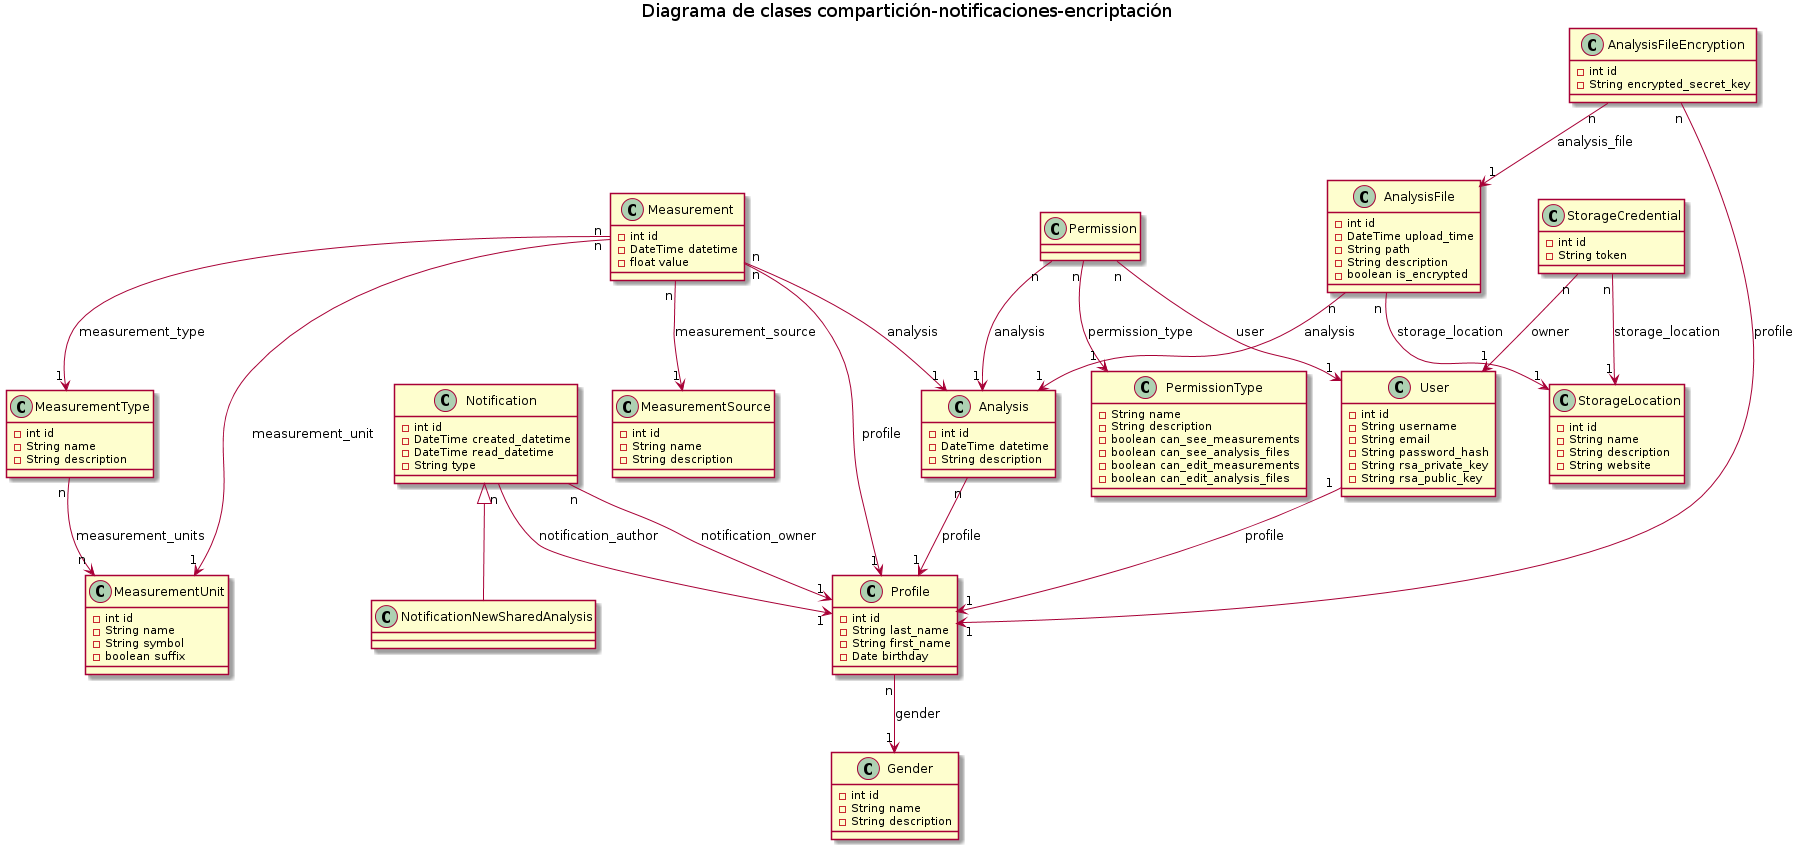
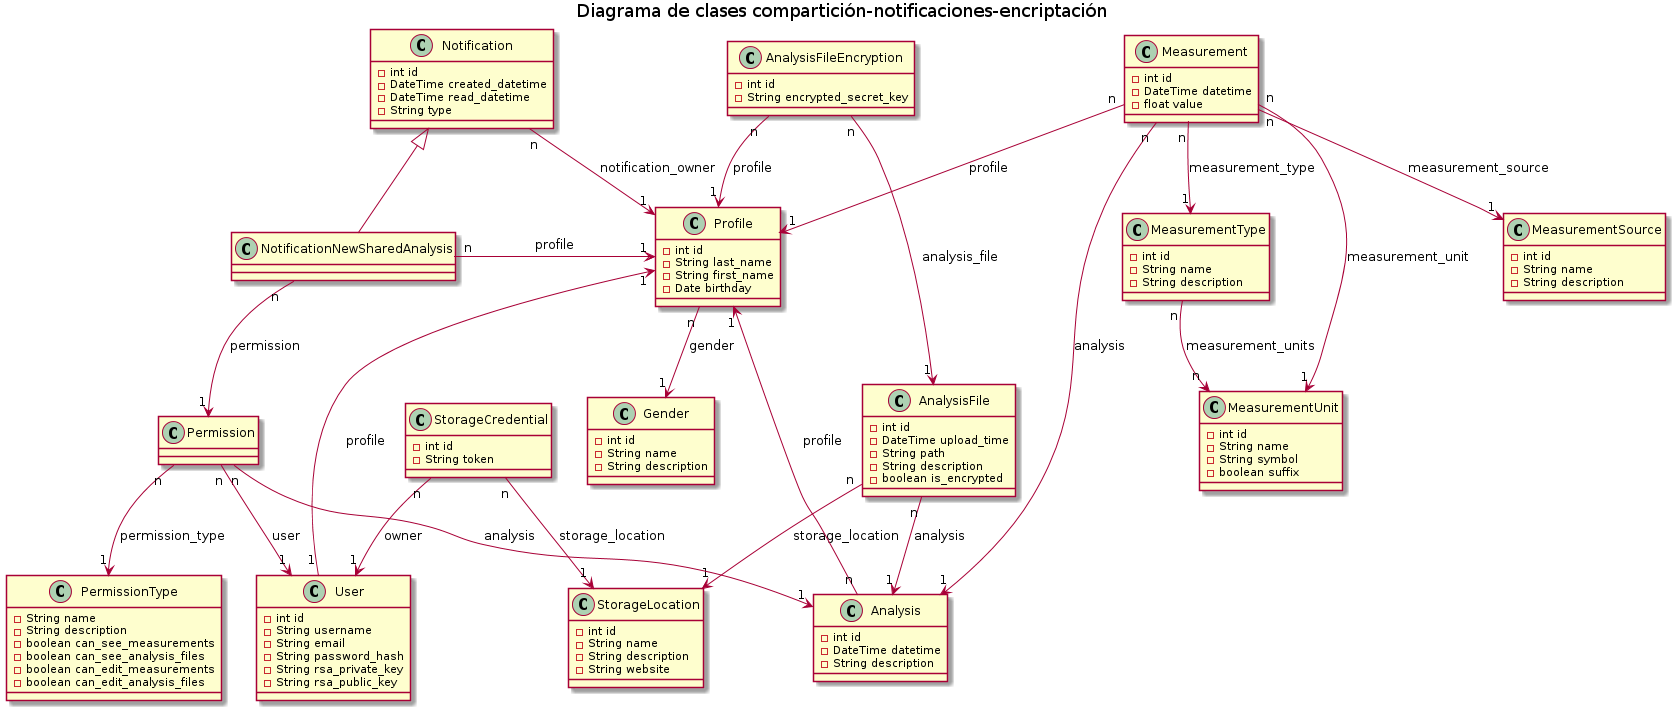
se actualizan user stories relacionados, explicación de encriptación y notificaciones, criterios de aceptación, sección pruebas ejecutadas, pendiente pruebas de integración, carga y seguridad

diff --git a/practicos/Diseño_Desarrollo_e_Implementación/tex/sprint_8.tex b/practicos/Diseño_Desarrollo_e_Implementación/tex/sprint_8.tex
@@ -6,6 +6,7 @@
     \item \textbf{Fin}: 1 de Noviembre de 2015.
 \end{itemize}
 
+
 \subsection{Descripción}
 
 En este sprint el equipo busca brindar funcionalidades que hacen del registro de análisis, carga de mediciones y archivos más útiles en lugar de solo representar registros de estudios. El equipo define una forma de compartir análisis cargados a otros usuarios registrados al mismo, con solo conocer el nombre del usuario destino de la compartición, el usuario que registra el análisis puede compartirse lo a este usuario destino. Esto presenta una gran utilidad en casos en los que el paciente visita al médico, inicia la consulta cargando un nuevo análisis con un título que le sea esclarecedor y una descripción en caso de que el título no lo sea, en esta situación, el médico puede solicitar que realice una serie de estudios, si el paciente realiza el estudio, por ejemplo unos análisis clínicos, el médico para estar al tanto de los resultados debe esperar a la próxima consulta con el paciente, con esta nueva funcionalidad el usuario puede cargar una imagen de los resultados, compartir el análisis con el médico e inmediatamente, este último, podrá ver los resultados del análisis clínico. Para compartir análisis debemos tener cuidado con lo que la persona a la que se le comparte el análisis puede hacer con estos datos, para salvar esta situación se define una estructura de permisos que define que es lo que puede hacer el usuario con el análisis compartidos, ver, editar, eliminar análisis y las combinaciones de las mismas. Esta funcionalidad es muy importante pero puede verse entorpecida si el usuario al que se le comparte el análisis no toma conocimiento de esta situación, para esto el equipo definió una forma de notificar al usuario cuando otro le comparte un análisis. Por el momento consiste en notificaciones que indican nombre de usuario y el evento, en este caso sería "El usuario x compartió un análisis contigo", las cuales deberían mostrarse sin importar la vista en la que se encuentre. Por otro lado, un tema importante y ampliamente desarrollado en la sección de Factibilidad es la protección de los datos del usuario, actualmente el sistema gestiona archivos que puede cargar a un sistema hosteado de almacenamiento como Dropbox o Drive, el problema es que estos archivos quedan visibles y quien tenga acceso a estos sistemas podrá ver las imágenes. Para una mejor protección de los datos del usuario se brinda la posibilidad de que, bajo indicación del usuario, sus archivos cargados a YesDoc y almacenados posteriormente en el sistema hosteado de alojamiento de preferencia, sean encriptados por YesDoc. De esta forma, quien acceda al Dropbox del usuario no podrá visualizar el archivo cargado, ni su vista previa ni descargándolo para luego abrirlo pues el archivo está encriptado. 
@@ -45,6 +46,10 @@ Este sprint le permite al usuario:
 				\hline
 				Back-end& Michael Manganiello &Franco Canizo & Implementación de notificaciones de compartición de análisis & US-\ref{resumenInfo} \& US-\ref{infoSalud} & 2hs\\ 
 				\hline
+				Documentación & Franco Canizo & Michael Manganiello & Documentación de los sprints 4, 5 y 6  & - & 20hs\\ 
+				\hline
+				Documentación & Franco Canizo & Michael Manganiello & Documentación programación y desarrollo  & - & 20hs\\ 
+				\hline
 			\end{tabular}
 		}
 		%\end{adjustbox}
@@ -52,21 +57,31 @@ Este sprint le permite al usuario:
 }
 
 \subsection{User Stories relacionados}
-La \textbf{Tabla \ref{US-Sprint8}} indicará las características de cada user story para guiarnos en el desarrollo del sprint.
-%\textbf{ESTO ES UN EJEMPLOOOO HAY QUE INDICAR TDOS LOS US RELACIONADO}
+La \textbf{Tabla} \ref{US-Sprint8} indicará las características de cada user story para guiarnos en el desarrollo del sprint.
+
+\newpage
+
 \begin{table}[h]
+	%\resizebox{\textwidth}{!}{
     \centering
 	\begin{tabular}{|l|p{9cm}|}
 	\hline
         \multicolumn{1}{|c|}{\textbf{ID}} &
-        \multicolumn{1}{|c|}{\textbf{Enunciado de la historia}} \\          
+        \multicolumn{1}{|c|}{\textbf{Enunciado de la historia}} \\  
     \hline
-        \textbf{US-2 } & Como paciente, quiero añadir al sistema los estudios realizados para evitar posibles perdidas.\\
-     \hline 
-     
+        	US-\ref{diagnosticarPaciente} &
+        	Como médico, quiero diagnosticar a un paciente, para darle un cierre a una incidencia planteada por la persona. \\ 
+    \hline
+        	US-\ref{comunicarResultado} &
+        	Como paciente, quiero que no sea necesario ir al hospital para que un médico me comunique los resultados del análisis. \\       
+    \hline
+     	US-\ref{validarUsuario} &
+     	Como paciente, quiero contar con un acceso único y privado a mi información, para que no sea accedida por usuarios sin permisos. \\
+    \hline
     \end{tabular}
     \caption{Listado de \textit{User Stories} relacionados.}
     \label{US-Sprint8}
+    % }
 \end{table}
 
 \subsection{Modelo funcional} 
@@ -104,7 +119,9 @@ La encriptación es opcional para cada archivo, y se realiza mediante el algorit
 
 Para la desencriptación primero se desencripta la clave AES mediante la clave RSA privada del usuario. Una vez obtenida la clave, se puede realizar el proceso de desencriptación mediante AES para obtener el archivo original.
 
-Para manejar encriptación de archivos se define el modelo \textbf{AnalysisFileEncryption} el cual mantiene la clave de encriptaci´on secreta de un archivo que pertenece a un perfil.
+Para manejar encriptación de archivos se define el modelo \textbf{AnalysisFileEncryption} el cual mantiene la clave de encriptación secreta de un archivo que pertenece a un perfil.
+
+Para manejar las notificaciones se define el modelo \textbf{Notification} que registra la fecha de notificación, fecha de lectura y el tipo de notificación y se relaciona con el perfil del dueño de la notificación. Se define el modelo \textbf{NotificationNewSharedAnalysis} el cual define una notificación para el caso en que se comparte un nuevo análisis. El modelo hereda de Notification y representa la notificación específica para cuando se crea un permiso que indica la compartición de un análisis con determinado tipo de permiso a un usuario determinado. Mantiene una relación con dicho permiso y con el perfil específico al que se comparte el análisis.
 
 \subsubsection{Definición de recursos}
 
@@ -160,6 +177,8 @@ A su vez se actualizan los siguientes recursos para adoptar la nueva estructura 
 
 En cuanto a encriptación, el único recurso que se modificó fue \textbf{AnalysisFileList}. El servicio POST del recurso ahora recibe un parámetro booleano opcional ``is\_encrypted'' (por defecto, falso), que indica si el archivo debe ser encriptado.
 
+Para el manejo de notificaciones se crea el recurso \textbf{MyNotificationList} que a través del servicio GET retorna todas las notificaciones del perfil asociado al usuario autenticado, ordenadas por fecha y hora, de más recientes a más antiguas. Permite especificar dos parámetros opcionales por query: quantity (int) determina la cantidad de notificaciones a retornar; por defecto, retorna todas las existentes para el perfil. unread (boolean) indica si sólo se deben retornar notificaciones no leídas (valor True); por defecto, retorna notificaciones leídas y no leídas.
+
 \subsubsection{Identificadores}
 
 	Para que el cliente pueda hacer uso de los recursos de permisos se definen los siguientes identificadores.
@@ -169,6 +188,8 @@ En cuanto a encriptación, el único recurso que se modificó fue \textbf{Analys
 		\item \textbf{/permission\_types} para el recurso ``PermissionTypeList''.
 		\item \textbf{/permissions\_types/<permission\_type\_id>} para el recurso ``PermissionTypeView''.
 	\end{itemize}
+	
+	Para acceder al recurso MyNotificationList se define el identificador \textbf{/my/notifications}.
 
 \begin{comment}
 
@@ -189,21 +210,36 @@ Esto no se si lo podria
 
 
 \subsection{Criterios de aceptación}
-\textbf{Ejemplo - esto se debe modificar}
-
 
 \begin{center}
-\begin{longtable}{|p{0.5cm}|p{4cm}|p{4cm}|p{5cm}|}
-\hline \hline \rowcolor[gray]{0.9}
-	\multicolumn{4}{||c|}{\textbf{Criterio de aceptación}} \\
-    \hline  \rowcolor[gray]{0.9}
-        \textbf{Id} &
-        \textbf{Contexto} &
-        \textbf{Evento}&
-        \textbf{Resultado} \\
+\begin{longtable}{|p{0.7cm}|p{4cm}|p{4cm}|p{5cm}| }
+
+	\hline 
+		\rowcolor[gray]{0.9} 
+		\multicolumn{4}{|c|}{\textbf{Criterio de aceptación}} \\
+	\hline
+    	\rowcolor[gray]{0.9} 
+    	\multicolumn{1}{|c}{\textbf{Id}} & \multicolumn{1}{|c}{\textbf{Contexto}} &  \multicolumn{1}{|c}{\textbf{Evento}} & \multicolumn{1}{|c|}{\textbf{Resultado}} \\
     \hline
-1&En caso de que exista una persona sin mediciones & cuando este desee observar sus mediciones  & El sistema no mostrará nada \\ \hline
+    	
+1&Usuario autenticado, análisis existente, análisis pertenece al usuario, el usuario destino no posee permisos para con el análisis & Cuando el usuario autenticado intenta compartir el análisis al usuario destino & El sistema responderá con un código de estado 201 CREATED, devolverá los datos del permiso, id, análisis, tipo de permiso y usuario. Por último, antes de responder, creará una nueva instancia de NotificationNewSharedAnalysis asociada al permiso y al perfil del usuario\\  \hline
+% AnalysisPermissionList POST
  
+2& Usuario autenticado, permiso existente, análisis asociado al permiso no pertenece al usuario autenticado   & Al intentar modificar el tipo de permiso del permiso & El sistema responderá con el código de estado 403 indicando la imposibilidad de actualización del permiso\\ \hline
+% PermissionView PUT
+
+3& Usuario autenticado, tipo de permiso existente & Al solicitar el tipo de permiso & el sistema responderá con el código 200 FOUND y devolverá los datos del tipo de permiso, id, name, description, can\_view\_analysis\_files, can\_view\_measurements, can\_edit\_measurements y can\_edit\_analysis\_files\\ \hline
+% PermissionTypeView GET
+
+4& Usuario autenticado, análisis existente, archivo existente, el usuario tiene permisos para ver el análisis, el archivo no está encriptado & Cuando el usuario solicite la descarga del archivo del análisis & El sistema descargará el archivo\\ \hline
+% AnalysisFileDownload GET
+
+5& Usuario autenticado, análisis existente, el usuario autenticado tiene permisos para editar los archivos análisis & cuando el usuario indica la carga de un archivo de forma encriptada & El sistema responde con el código de estado HTTP 201 CREATED, crea una instancia de AnalysisFileEncryption asociada al análisis y perfil del usuario y retorna los datos de la carga, tiempo de carga, ruta, descripción, encriptado, análisis y ubicación de almacenamiento\\ \hline
+% AnalysisFileList
+
+6& Usuario autenticado, existen notificaciones asociadas al perfil no leídas & cuando el usuario solicita sus notificaciones no leídas indicando como límite 4 notificaciones & El sistema responde con el código de estado HTTP 200 FOUND y retorna las últimas 4 notificaciones no leídas por el usuario\\ \hline
+%MyNotificationList
+
 
   \end{longtable}
 \end{center}
@@ -224,17 +260,33 @@ Aqui se realizará una conclusión general de lo que se descubrió en las prueba
 	\begin{itemize}
 		\item \textbf{¿Qué fue bien?}
         	\begin{itemize}
-				\item        Las cargas y ediciones se llevan a cabo correctamente.
+				\item Se crean correctamente el permiso al compartir el análisis a un usuario para que pueda editarlo o solo verlo.
+				\item Una vez realizada la compartición se crea la notificación para el usuario específico.
+				\item El archivo encriptado cargado a dropbox no puede verse y si es descargado, no puede abrirse con ninguna aplicación. EL archivo realmente queda encriptado.
 			\end{itemize}
 
    		\item \textbf{¿Qué se mejoró?}
         	\begin{itemize}
-                \item \textbf{Cerrado} problema
+                \item \textbf{Cerrado} Se crean los recursos necesarios para, mediante servicio GET, obtener las asociaciones de un análisis dado:
+                
+                    Recurso: \textbf{AnalysisAnalysisFileList}, Identificador: 
+                    
+                    \textbf{/analysis/<analysis\_id>/files}: Retorna todas las instancias de AnalysisFile asociadas al análisis especificado.
+                    Recurso: \textbf{AnalysisMeasurementList}, Identificador: \textbf{/analysis/<analysis\_id>/measurements}: Retorna todas las instancias de Measurement asociadas al análisis especificado.
+                
+                \item se crea el servicio DELETE en el recurso \textbf{AnalysisView}. Requiere autenticación por parte del dueño del análisis, y elimina todas las mediciones y archivos asociados al análisis, junto con el análisis.
+                
+                \item Se crea el recurso \textbf{AnalysisFileThumbnail}, el identificador 
+                
+                \textbf{/analysis\_files/<analysis\_file\_id>/thumbnail}, para acceder al mismo y se desarrolla el servicio GET para obtener el thumbnail del archivo. Actualmente, sólo funciona con archivos alojados en Dropbox.
+                
+                
 			\end{itemize}
 
    		\item \textbf{¿Qué se puede mejorar?}
         	\begin{itemize}
-		        \item \textbf{Abierto} En el futuro se deberá mejorar ...
+		        \item \textbf{Abierto} El manejo de thumbnail tendrá que funcionar también para archivos alojados en Drive
+		        \item \textbf{Abierto} Definir notificaciones específicas para todos los eventos que pueden darse en el sistema, no solo compartición de análisis.
             \end{itemize}
         
 
